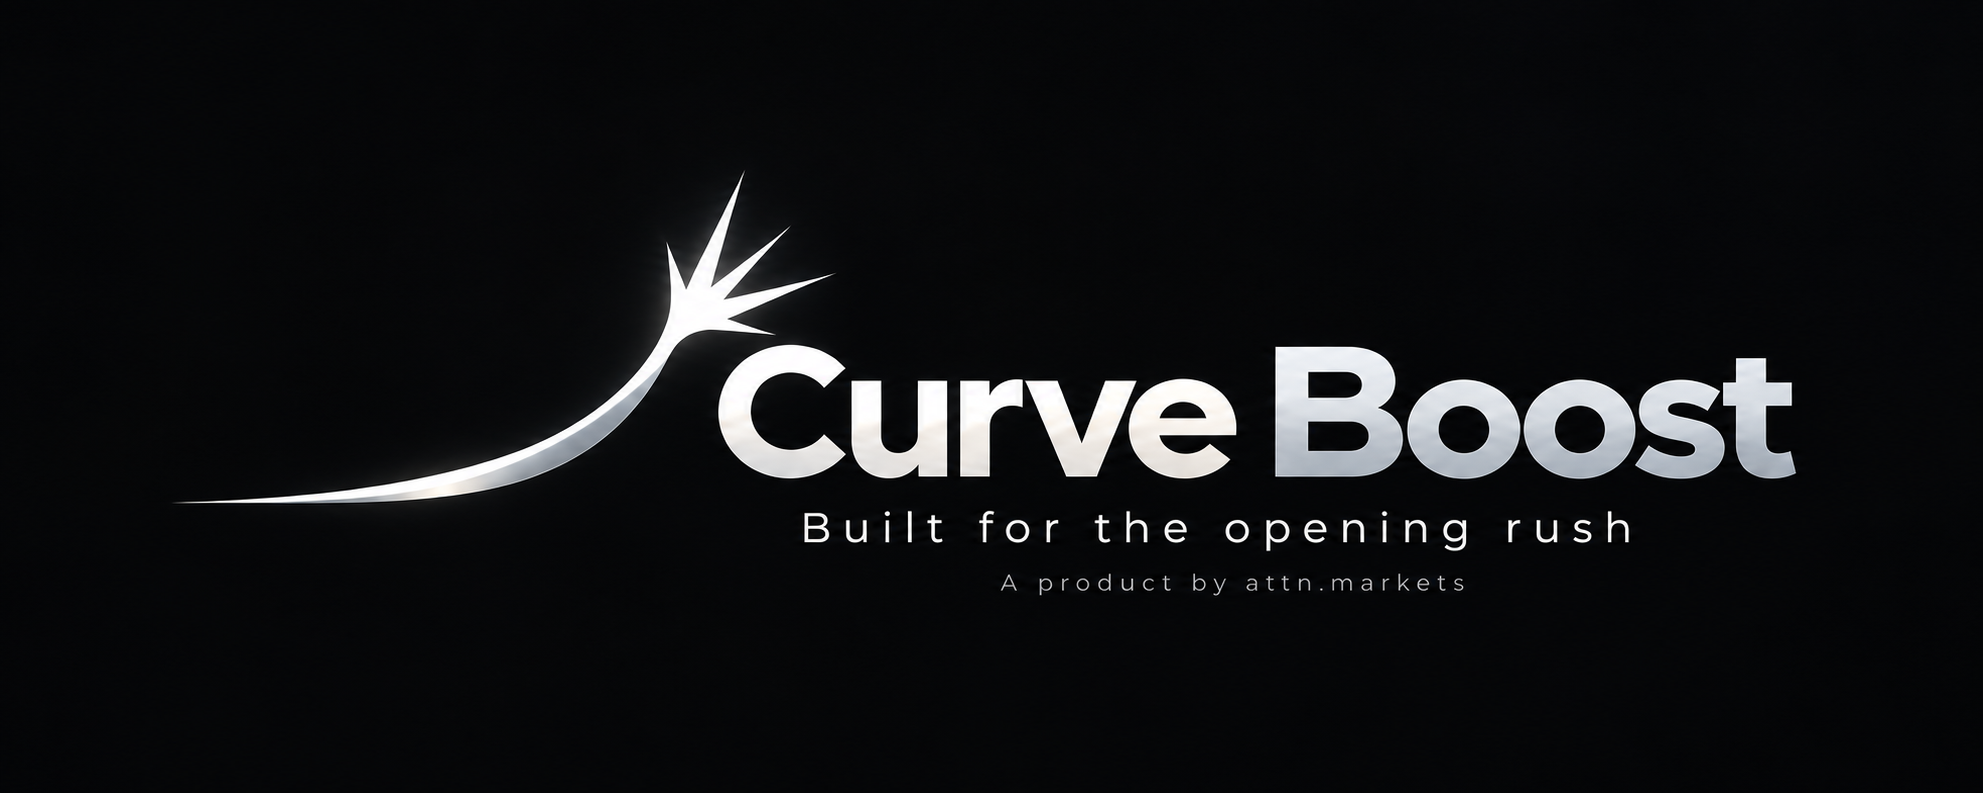
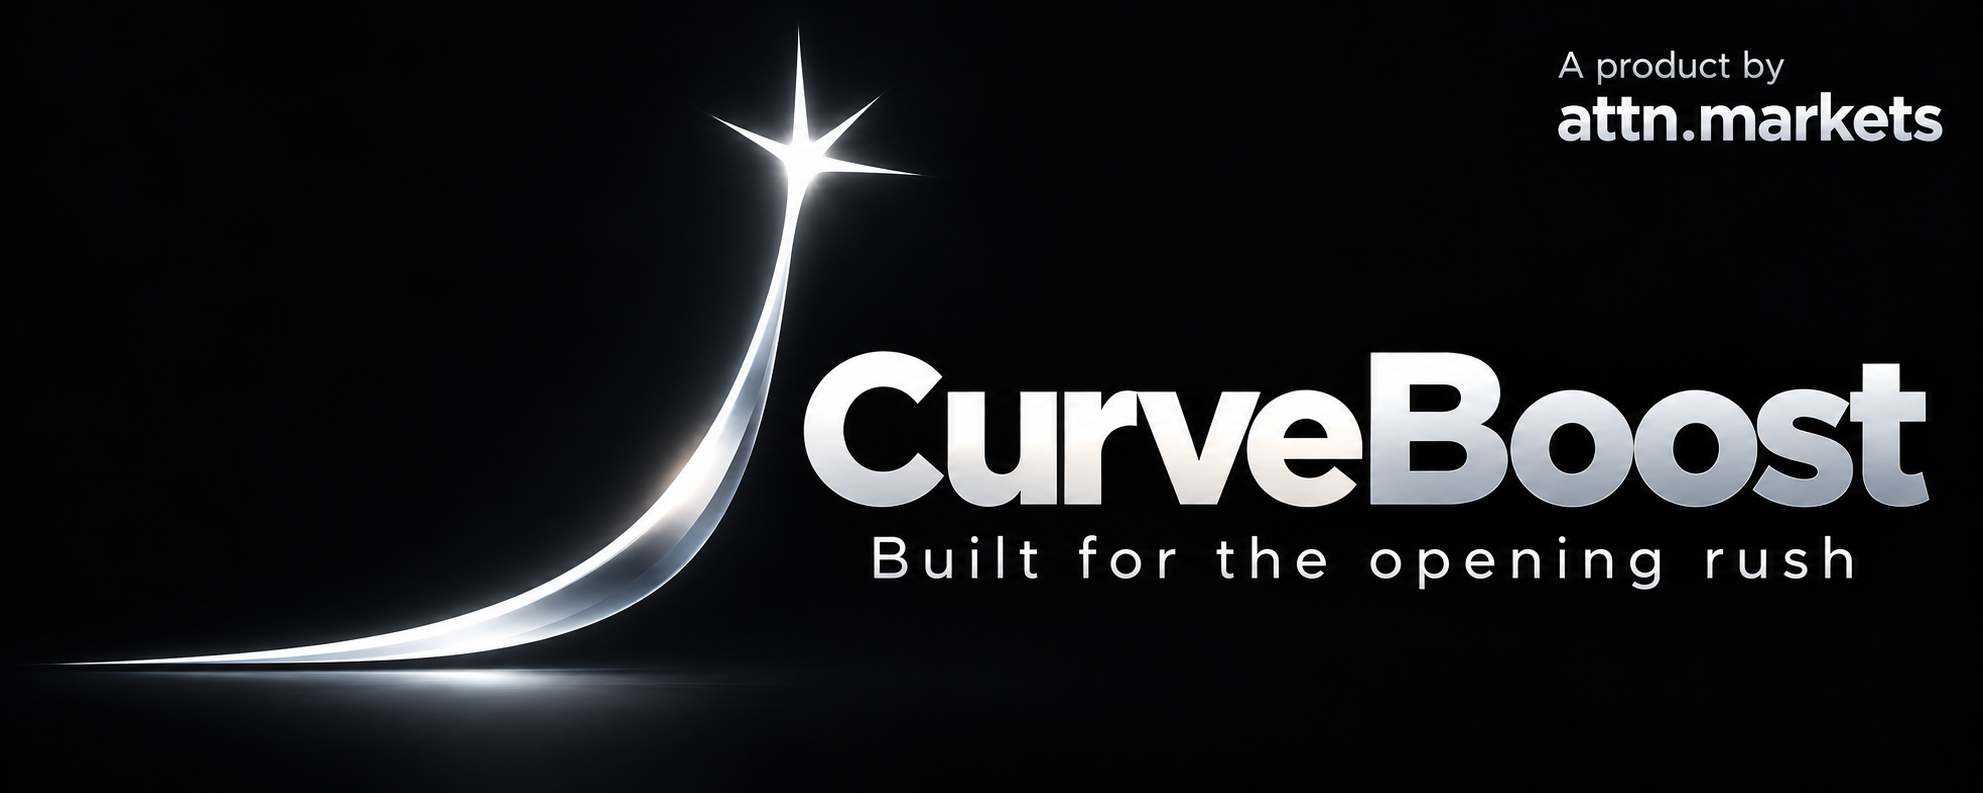
Refine CurveBoost cover and highlight creator fee increases

Changed region(s): [[0.0308, 0.0605, 0.9844, 0.9382], [0.769, 0.0605, 0.9844, 0.1816]]

diff --git a/studies/creator-fees-854/scripts/render_chart.py b/studies/creator-fees-854/scripts/render_chart.py
@@ -4,8 +4,8 @@ from pathlib import Path
 from html import escape
 import json
 ROOT=Path(__file__).resolve().parents[1]
-OUT=ROOT/'figures'; W,H=1600,1160
-BG='#0B0C0E'; WHITE='#F4F3EF'; CHROME='#BABDC3'; MUTED='#999EA7'; RULE='#30343A'; BLUE='#E1E3E6'
+OUT=ROOT/'figures'; W,H=1600,1380
+BG='#0B0C0E'; WHITE='#F4F3EF'; CHROME='#BABDC3'; MUTED='#999EA7'; RULE='#30343A'; BLUE='#E1E3E6'; GAIN='#70D99C'
 FONT=None
 class Plate:
  def __init__(self):
@@ -21,35 +21,41 @@ class Plate:
  def line(self,x,y,x2,y2,color=RULE,width=2):
   self.d.line((x*2,y*2,x2*2,y2*2),fill=color,width=width*2);self.s.append(f'<line x1="{x}" y1="{y}" x2="{x2}" y2="{y2}" stroke="{color}" stroke-width="{width}"/>')
  def save(self):
-  self.im.resize((W,H),Image.Resampling.LANCZOS).save(OUT/'curve-boost-first-hour-fees-v1.png');(OUT/'curve-boost-first-hour-fees-v1.svg').write_text(''.join(self.s)+'</svg>')
+  self.im.resize((W,H),Image.Resampling.LANCZOS).save(OUT/'curveboost-first-hour-fees-v2.png');(OUT/'curveboost-first-hour-fees-v2.svg').write_text(''.join(self.s)+'</svg>')
 def render(data):
  assert len(data['rows'])==2
- for row in data['rows']:
-  for key in ['handle','launches','actualSOL','actualUSD','recalculatedSOL','recalculatedUSD']: assert key in row
+ # Uplift is independently computed from exact lamports, never rounded display differences.
+ precise=json.loads((ROOT/'results.json').read_text())
+ from decimal import Decimal as D, ROUND_HALF_UP
  c=Plate()
  c.line(68,110,1532,110,RULE,2)
- mark=[(70+x,55+y) for x,y in [(0, 34), (12, 33), (24, 31), (34, 27), (42, 21), (47, 13), (48, 6), (47, 0), (51, 10), (59, -10), (55, 12), (67, 0), (58, 15), (74, 10), (60, 21), (66, 27), (57, 25), (51, 26), (44, 30), (34, 34), (21, 36), (0, 36)]]
+ mark=[(70+x,55+y) for x,y in [(0, 42), (14, 42), (28, 41), (39, 40), (47, 37), (53, 32), (57, 24), (60, 12), (62, 0), (65, 12), (70, -13), (68, 13), (80, 1), (71, 19), (85, 13), (73, 25), (79, 30), (69, 29), (65, 31), (61, 38), (51, 43), (35, 46), (14, 46), (0, 45)]]
  c.d.polygon([(x*2,y*2) for x,y in mark],fill=WHITE)
  c.s.append('<polygon points="'+' '.join(str(x)+','+str(y) for x,y in mark)+'" fill="'+WHITE+'"/>')
- c.text(163,50,'Curve Boost',32,bold=True);c.text(1334,54,'attn.markets',25,color=CHROME)
- c.text(68,190,'First-hour',84,bold=True)
- c.text(68,284,'creator fees',84,color=BLUE,bold=True)
- c.text(70,402,'Same recorded trades across 854 launches',30,color=CHROME)
- c.text(563,485,'Recorded fees',27,color=CHROME,bold=True)
- c.text(1060,485,'Curve volume at 0.95%',27,color=BLUE,bold=True)
- for i,r in enumerate(data['rows']):
-  y=565+i*228
-  c.line(68,y-25,1532,y-25)
-  c.text(68,y,r['handle'],35,bold=True)
-  c.text(70,y+59,f"{r['launches']} launches",26,color=MUTED)
-  c.text(560,y-7,r['actualSOL']+' SOL',57,bold=True)
-  c.text(563,y+75,'('+r['actualUSD']+')',31,color=CHROME)
-  c.text(1057,y-7,r['recalculatedSOL']+' SOL',57,color=BLUE,bold=True)
-  c.text(1060,y+75,'('+r['recalculatedUSD']+')',31,color=CHROME)
- c.line(68,990,1532,990)
- for i,line in enumerate(data['notes']):c.text(68,1014+38*i,line,25,color=MUTED)
+ c.text(163,50,'CurveBoost',32,bold=True);c.text(1170,54,'A product by attn.markets',25,color=CHROME)
+ c.text(68,177,'First-hour creator fees',76,bold=True)
+ c.text(70,287,'Same recorded trades across 854 launches',31,color=CHROME)
+ for i,(r,exact) in enumerate(zip(data['rows'],precise['results'])):
+  a=int(exact['actualFeeLamports']);b=int(exact['curveOnly95FeeLamports'])
+  usd=(D(b-a)/D(1000000000)*D('107.24')).quantize(D(1),rounding=ROUND_HALF_UP)
+  pct=(D(b-a)/D(a)*100).quantize(D('.1'),rounding=ROUND_HALF_UP)
+  gainUSD='+$'+format(usd,',.0f');gainPct='+'+format(pct,'.1f')+'%'
+  assert gainUSD==r['increaseUSD'] and gainPct==r['increasePct']
+  y=385+i*405
+  c.line(68,y-22,1532,y-22)
+  c.text(70,y,r['handle'],36,bold=True);c.text(1150,y+5,f"{r['launches']} launches",29,color=CHROME)
+  c.text(72,y+63,'INCREASE',23,color=GAIN,bold=True)
+  c.text(68,y+98,gainUSD,83,color=GAIN,bold=True)
+  c.text(710,y+116,gainPct,58,color=GAIN,bold=True)
+  c.text(72,y+218,'Recorded fees',28,color=CHROME,bold=True)
+  c.text(840,y+218,'Curve volume at 0.95%',28,color=CHROME,bold=True)
+  c.text(68,y+260,r['actualSOL']+' SOL',51,bold=True)
+  c.text(836,y+260,r['recalculatedSOL']+' SOL',51,bold=True)
+  c.text(72,y+324,'('+r['actualUSD']+')',30,color=CHROME)
+  c.text(840,y+324,'('+r['recalculatedUSD']+')',30,color=CHROME)
+ c.line(68,1208,1532,1208)
+ for i,line in enumerate(data['notes']):c.text(68,1235+39*i,line,26,color=MUTED)
  c.save()
 if __name__=='__main__':
  p=ROOT/'figures/chart-input.json'
- if not p.exists():raise SystemExit('Awaiting exact fee and saved USD values; no output rendered.')
  render(json.loads(p.read_text()))

diff --git a/studies/vamp-races-2026-10-23/scripts/build_chart.py b/studies/vamp-races-2026-10-23/scripts/build_chart.py
@@ -29,11 +29,11 @@ def line(x,y,x2,y2,color=RULE,width=2):
 def rect(x,y,w,h,color):
  if d:d.rectangle((x*2,y*2,(x+w)*2,(y+h)*2),fill=color)
  s.append(f'<rect x="{x}" y="{y}" width="{w}" height="{h}" fill="{color}"/>')
-mark=[(70+x,55+y) for x,y in [(0, 34), (12, 33), (24, 31), (34, 27), (42, 21), (47, 13), (48, 6), (47, 0), (51, 10), (59, -10), (55, 12), (67, 0), (58, 15), (74, 10), (60, 21), (66, 27), (57, 25), (51, 26), (44, 30), (34, 34), (21, 36), (0, 36)]]
+mark=[(70+x,55+y) for x,y in [(0, 42), (14, 42), (28, 41), (39, 40), (47, 37), (53, 32), (57, 24), (60, 12), (62, 0), (65, 12), (70, -13), (68, 13), (80, 1), (71, 19), (85, 13), (73, 25), (79, 30), (69, 29), (65, 31), (61, 38), (51, 43), (35, 46), (14, 46), (0, 45)]]
 if d:d.polygon([(x*2,y*2) for x,y in mark],fill=WHITE)
 s.append('<polygon points="'+' '.join(str(x)+','+str(y) for x,y in mark)+'" fill="'+WHITE+'"/>')
-text(163,50,'Curve Boost',32,bold=True)
-text(1334,54,'attn.markets',25,color=MUTED)
+text(163,50,'CurveBoost',32,bold=True)
+text(1170,54,'A product by attn.markets',25,color=MUTED)
 line(70,110,1530,110,RULE)
 text(70,146,f'{den:,} CONTESTED VAMP RACES',25,color=MUTED,bold=True)
 text(70,204,'Opening volume and',73,bold=True)
@@ -56,6 +56,6 @@ text(70,967,'At least two tokens with $1,000+ first-hour volume.',27,color=MUTED
 text(70,1008,'Each token uses its own two-minute and one-hour windows.',27,color=MUTED)
 text(70,1049,'Launches: 22–23 Oct 2026 · @Circular_fi export · attn.markets',24,color=MUTED)
 
-(OUT/'curve-boost-opening-volume-v1.svg').write_text(''.join(s)+'</svg>')
-if im:im.resize((W,H),Image.Resampling.LANCZOS).save(OUT/'curve-boost-opening-volume-v1.png')
+(OUT/'curveboost-opening-volume-v2.svg').write_text(''.join(s)+'</svg>')
+if im:im.resize((W,H),Image.Resampling.LANCZOS).save(OUT/'curveboost-opening-volume-v2.png')
 print('SVG written; PNG '+('written with installed font fallback' if im else 'not requested or optional Pillow unavailable'))

diff --git a/article/README.md b/article/README.md
@@ -1,13 +1,14 @@
-# Curve Boost article and identity
+# CurveBoost article and identity
 
-Current Typefully draft: **Curve Boost: built for the opening rush**, 410 words, unpublished.
+Current Typefully draft: **CurveBoost: built for the opening rush**, 395 words, unpublished.
 
 - [Article text](boost-draft.txt)
 - [Article cover](cover.png)
-- [Product logo lockup](curve-boost-logo.png)
-- [Opening-volume chart](../studies/vamp-races-2026-10-23/charts/rebuilt/curve-boost-opening-volume-v1.png) and [SVG](../studies/vamp-races-2026-10-23/charts/rebuilt/curve-boost-opening-volume-v1.svg)
-- [First-hour creator-fee chart](../studies/creator-fees-854/figures/curve-boost-first-hour-fees-v1.png) and [SVG](../studies/creator-fees-854/figures/curve-boost-first-hour-fees-v1.svg)
+- [Current product lockup](cover.png)
+- [Earlier two-word logo concept](curve-boost-logo.png)
+- [Opening-volume chart](../studies/vamp-races-2026-10-23/charts/rebuilt/curveboost-opening-volume-v2.png) and [SVG](../studies/vamp-races-2026-10-23/charts/rebuilt/curveboost-opening-volume-v2.svg)
+- [First-hour creator-fee chart](../studies/creator-fees-854/figures/curveboost-first-hour-fees-v2.png) and [SVG](../studies/creator-fees-854/figures/curveboost-first-hour-fees-v2.svg)
 
-The curve-to-burst identity and cover were generated using the built-in image-generation tool. Final prompts: [cover](cover-prompt.txt), [logo](logo-prompt.txt). Charts use deterministic native rendering from the unchanged study values. Earlier graphics remain in the study folders for reference.
+The exponential curve-to-burst cover was generated using the built-in image-generation tool. Current [cover prompt](cover-prompt.txt) and earlier [logo concept prompt](logo-prompt.txt). Charts use deterministic native rendering from the unchanged study values. Earlier graphics remain in the study folders for reference.
 
-Product attribution: **A product by attn.markets**. Curve Boost is still in development. The research repository remains private.
+Product attribution: **A product by attn.markets**. CurveBoost is still in development. The research repository remains private.

diff --git a/README.md b/README.md
@@ -1,6 +1,6 @@
-# Curve Boost research · attn.markets
+# CurveBoost research · attn.markets
 
-Data, methodology, calculations and charts supporting **Curve Boost: built for the opening rush**. Snapshot: 23 October 2026. **Repository visibility: private.** The Curve Boost article is an unpublished draft.
+Data, methodology, calculations and charts supporting **CurveBoost: built for the opening rush**. Snapshot: 23 October 2026. **Repository visibility: private.** The CurveBoost article is an unpublished draft.
 
 ## Check the article's numbers
 
@@ -12,7 +12,7 @@ Data, methodology, calculations and charts supporting **Curve Boost: built for t
 | Pigeon: 3,604.63 → 6,000.32 SOL | [854-window fee study](studies/creator-fees-854/) | Reprice curve trades only; preserve recorded pool fees |
 | Ram: 807.51 → 1,583.14 SOL | Same fee study | Same calculation |
 
-The race export contains 8,821 tokens in 2,511 matched races, including 5,534 members of 1,219 contested races. A contested race has at least two members with $1,000 in own-first-hour volume. Every token's two-minute and one-hour windows start at its own first trade. This comparison measures retrospective opening leadership; it does not measure a common race-minute-two decision or a causal Curve Boost effect.
+The race export contains 8,821 tokens in 2,511 matched races, including 5,534 members of 1,219 contested races. A contested race has at least two members with $1,000 in own-first-hour volume. Every token's two-minute and one-hour windows start at its own first trade. This comparison measures retrospective opening leadership; it does not measure a common race-minute-two decision or a causal CurveBoost effect.
 
 The fee examples cover 583 Pigeon and 271 Ram launches. All recorded traders, including launchers, are included. Only bonding-curve principal is repriced at 95 basis points; historical post-graduation fees stay unchanged. The scenario holds recorded trading activity fixed. USD display values use the retained study valuation of $107.24 per SOL. Methodology and exact integer inputs are in the fee folder.
 

diff --git a/studies/vamp-races-2026-10-23/README.md b/studies/vamp-races-2026-10-23/README.md
@@ -1,10 +1,10 @@
-# Curve Boost matched launch-race research
+# CurveBoost matched launch-race research
 
 Study snapshot: 23 October 2026. Prepared for private review.
 
 The strongest own two-minute opening also led own first-hour volume in **1,007/1,219 contested races (82.6%)**. The first token launched led in **577/1,219 (47.3%)**. The contested set contains **5,534 member tokens**. A contested race has at least two tokens with $1,000 or more in own first-hour exported volume.
 
-These are retrospective associations within the matched source export. They are not a Curve Boost success rate, a causal effect, an all-market estimate or an online prediction at race-minute two.
+These are retrospective associations within the matched source export. They are not a CurveBoost success rate, a causal effect, an all-market estimate or an online prediction at race-minute two.
 
 ## Reproduce offline
 
@@ -23,7 +23,7 @@ Optional PNG recreation uses an already-installed Pillow 10.1 or newer:
 python3 scripts/build_chart.py
 ```
 
-The renderer tries Arial, DejaVu Sans and Liberation Sans, then Pillow's scalable default font. It needs no machine-specific font path. Native SVG uses standard sans-serif fallbacks and can be opened or exported in any SVG-capable browser/editor. Font rasterization can vary by platform. `charts/original/` preserves the earlier article PNG/SVG unchanged; `charts/rebuilt/curve-boost-opening-volume-v1.{png,svg}` holds the current Curve Boost graphics.
+The renderer tries Arial, DejaVu Sans and Liberation Sans, then Pillow's scalable default font. It needs no machine-specific font path. Native SVG uses standard sans-serif fallbacks and can be opened or exported in any SVG-capable browser/editor. Font rasterization can vary by platform. `charts/original/` preserves the earlier article PNG/SVG unchanged; `charts/rebuilt/curveboost-opening-volume-v2.{png,svg}` holds the current CurveBoost graphics.
 
 ## Contents
 

diff --git a/studies/creator-fees-854/README.md b/studies/creator-fees-854/README.md
@@ -1,4 +1,4 @@
-# Curve Boost: retained first-hour fee sensitivity
+# CurveBoost: retained first-hour fee sensitivity
 
 Study snapshot: 23 October 2026. Prepared for private review.
 
@@ -17,7 +17,7 @@ python3 scripts/calculate.py
 
 The script uses only Python's standard library. It checks cohort sizes, unique mints and expected exact integers, then writes `results.json`. `data/launches-854.csv` provides every launch's curve and AMM volume, observed fee, saved event-rounded 95 bps fee sum, event counts and historical source reference. The reference paths are provenance identifiers within the original research case; those upstream files are not included here.
 
-`figures/curve-boost-first-hour-fees-v1.png` and `.svg` are the current article graphics. Earlier `boost-fees-v4` graphics remain as historical presentation assets. Their exact display inputs are `figures/chart-input.json`; optional `scripts/render_chart.py` requires Pillow and regenerates the graphic with a portable font fallback, so typography may differ. Calculations do not require Pillow.
+`figures/curveboost-first-hour-fees-v2.png` and `.svg` are the current article graphics. Earlier `boost-fees-v4` graphics remain as historical presentation assets. The green increase labels are +$256,914 (+66.5%) for Pigeon and +$83,179 (+96.1%) for Ram, computed from exact lamport differences and the retained $107.24/SOL valuation. [Exact arithmetic](figures/uplift-proof.json) is included. Their exact display inputs are `figures/chart-input.json`; optional `scripts/render_chart.py` requires Pillow and regenerates the graphic with a portable font fallback, so typography may differ. Calculations do not require Pillow.
 
 Read `METHODOLOGY.md` for the counterfactual and evidence limits, `data/provenance.json` for original input hashes, and `MANIFEST.json` for hashes of this package's files.
 

diff --git a/VERIFICATION.md b/VERIFICATION.md
@@ -8,7 +8,8 @@
 - All 854 launch rows reproduce exact Pigeon/Ram SOL totals and article USD display values.
 - Separate normalized event replay: 1,759,593 events, 8,540 exact per-launch phase-field equalities, independent event-level 95-basis-point calculation.
 - Helius packaging: all 595 compressed response hashes, sample uncompressed hash, archive digest, portable imports and 12 PDA pairs checked. Full decoding was retained from the completed pilot; packaging did not repeat it. Pilot closure limitations remain in its own methods and receipt.
-- Draft snapshot: 410 words; Curve Boost title, cover and both chart images updated. Pigeon/Ram examples, all numerical figures, account tags and research link are unchanged. Typefully remains unpublished.
+- Draft snapshot: 395 words; CurveBoost title, steeper exponential cover and both chart images updated. Pigeon/Ram examples, all numerical figures, account tags and research link are unchanged. The closing explicitly identifies development status and the attn.markets product suite. Typefully remains unpublished.
+- Fee-chart increase labels: Pigeon +$256,914 (+66.5%), Ram +$83,179 (+96.1%). Derived from exact lamport differences using the retained $107.24/SOL valuation; original recorded/repriced amounts are unchanged.
 - Branding refresh: offline study-table reproduction passed; exact chart figures and native SVG regeneration checked. Original CSVs, fee calculations, normalized evidence, private release attachments and separate Helius pilot retained.
 
 These checks reproduce the retained research inputs and arithmetic. Dataset provenance and observational/counterfactual definitions are documented in the corresponding study folders.
